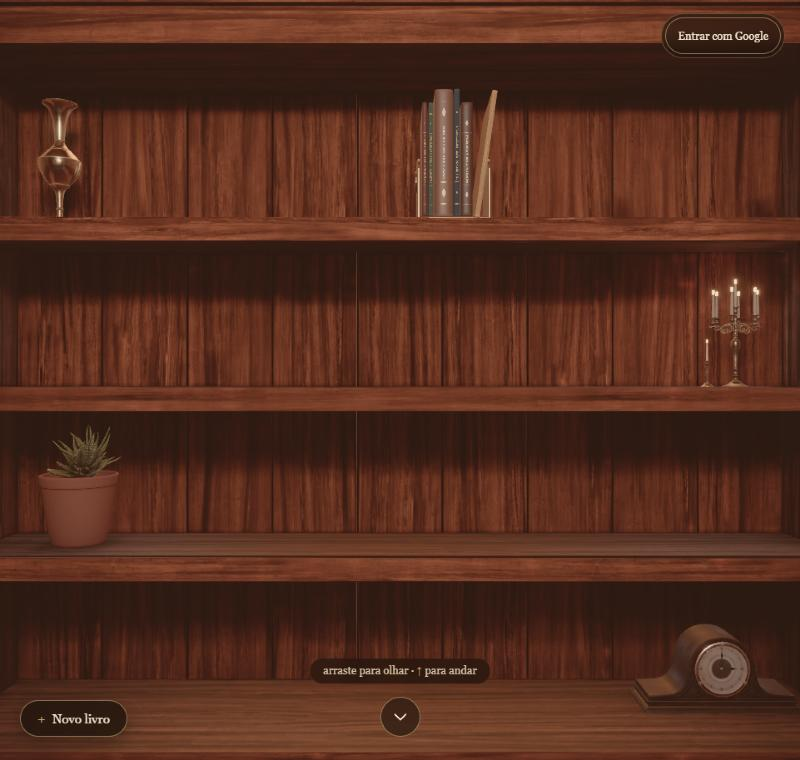
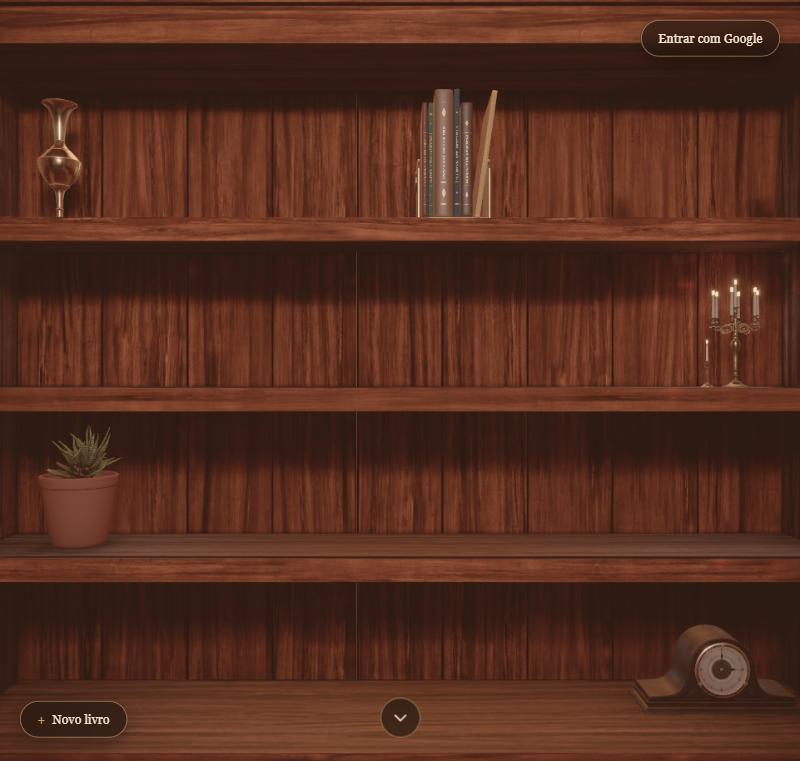
fase 7: conta revisada (art-reviewer C1–C3) — pílula igual ao Novo livro, aviso de migração embaixo, Esc e foco no modal

Changed region(s): [[0.7812, 0.0, 1.0, 0.0908], [0.375, 0.8474, 0.625, 0.9079], [0.0625, 0.9382, 0.1562, 0.9684]]

diff --git a/src/ui/AccountUI.tsx b/src/ui/AccountUI.tsx
@@ -1,4 +1,4 @@
-import { useState } from 'react'
+import { useEffect, useRef, useState } from 'react'
 import { params } from '../app/params'
 import { cloudConfigured, useAccount } from '../data/cloud'
 import { useLibrary } from '../data/library'
@@ -6,30 +6,32 @@ import './ui.css'
 
 /**
  * The account (spec Fase 7), top right: "Entrar com Google", or who is signed in and "Sair". Nothing at
- * all without the Supabase keys (the books stay in this browser, as in Fase 6).
+ * all without the Supabase keys (the books stay in this browser, as in Fase 6). `visible` false (a book in
+ * the hand or open, the form) hides it, except while the offer to move local books is waiting.
  */
-export function AccountUI() {
+export function AccountUI({ visible }: { visible: boolean }) {
   const status = useAccount((s) => s.status)
   const account = useAccount((s) => s.account)
   const signIn = useAccount((s) => s.signIn)
   const signOut = useAccount((s) => s.signOut)
-  if (!cloudConfigured || params.shot || status === 'loading') return null
+  const offering = useLibrary((s) => s.localPending.length > 0) && status === 'in'
+  if (!cloudConfigured || params.shot || status === 'loading' || (!visible && !offering)) return null
   return (
     <div className="acc">
       {status === 'in' && account ? (
-        <>
+        <div className="acc-in">
           {account.avatar ? (
             <img className="acc-avatar" src={account.avatar} alt="" referrerPolicy="no-referrer" />
           ) : (
             <span className="acc-avatar acc-initial">{account.name.slice(0, 1).toUpperCase()}</span>
           )}
           <span className="acc-name">{account.name}</span>
-          <button type="button" className="ui-btn ui-btn-small" onClick={() => void signOut()}>
+          <button type="button" className="acc-out" onClick={() => void signOut()}>
             Sair
           </button>
-        </>
+        </div>
       ) : (
-        <button type="button" className="ui-btn ui-btn-small" onClick={() => void signIn()}>
+        <button type="button" className="acc-signin" onClick={() => void signIn()}>
           Entrar com Google
         </button>
       )}
@@ -38,7 +40,7 @@ export function AccountUI() {
   )
 }
 
-/** First sign-in with books made in this browser: offer to take them to the account. */
+/** First sign-in with books made in this browser: offer to keep them in the account. */
 function MigrationOffer() {
   const pending = useLibrary((s) => s.localPending)
   const signedIn = useAccount((s) => s.status === 'in')
@@ -52,18 +54,22 @@ function MigrationOffer() {
     useLibrary
       .getState()
       .migrate((done) => setBusy(done))
-      .catch((err: unknown) => setError(`Não deu: ${err instanceof Error ? err.message : String(err)}`))
+      .catch((err: unknown) => {
+        console.warn('[conta] não levou os livros locais', err)
+        setError('Não foi possível guardar os livros. Tente de novo.')
+      })
       .finally(() => setBusy(null))
   }
   return (
     <div className="ui-card acc-offer" role="dialog" aria-labelledby="acc-offer-t">
+      <p className="ui-kicker">Sua conta</p>
       <p id="acc-offer-t">
-        Você tem {n === 1 ? '1 livro' : `${n} livros`} só neste navegador. Levar para a sua conta, para abrir em qualquer lugar?
+        {n === 1 ? '1 livro está' : `${n} livros estão`} só neste navegador. Guardar na sua conta para abrir em qualquer lugar?
       </p>
       {error && <p className="ui-error">{error}</p>}
       <div className="ui-actions">
         <button type="button" className="ui-btn ui-btn-primary ui-btn-small" disabled={busy !== null} onClick={move}>
-          {busy === null ? 'Levar' : `Levando ${busy}/${n}…`}
+          {busy === null ? 'Guardar na conta' : `Guardando ${busy}/${n}…`}
         </button>
         <button type="button" className="ui-btn ui-btn-small" disabled={busy !== null} onClick={() => useLibrary.getState().dismissMigration()}>
           Agora não
@@ -76,6 +82,15 @@ function MigrationOffer() {
 /** "Novo livro" (or a dropped PDF) while signed out: a book needs an owner first. */
 export function SignInFirst({ onClose }: { onClose: () => void }) {
   const signIn = useAccount((s) => s.signIn)
+  const primary = useRef<HTMLButtonElement>(null)
+  useEffect(() => {
+    primary.current?.focus()
+    const onKey = (e: KeyboardEvent) => {
+      if (e.key === 'Escape') onClose()
+    }
+    window.addEventListener('keydown', onKey)
+    return () => window.removeEventListener('keydown', onKey)
+  }, [onClose])
   return (
     <div className="ui-overlay" onClick={onClose}>
       <div className="ui-card acc-first" role="dialog" aria-modal="true" aria-labelledby="acc-first-t" onClick={(e) => e.stopPropagation()}>
@@ -83,9 +98,9 @@ export function SignInFirst({ onClose }: { onClose: () => void }) {
         <h2 id="acc-first-t" className="ui-title">
           Entre para guardar os seus livros
         </h2>
-        <p className="acc-first-text">Com a sua conta Google os livros ficam guardados e abrem em qualquer navegador. Só você vê a sua estante.</p>
+        <p className="acc-first-text">Com a sua conta Google, os livros ficam guardados e abrem em qualquer navegador. Só você vê a sua estante.</p>
         <div className="ui-actions">
-          <button type="button" className="ui-btn ui-btn-primary" onClick={() => void signIn()}>
+          <button ref={primary} type="button" className="ui-btn ui-btn-primary" onClick={() => void signIn()}>
             Entrar com Google
           </button>
           <button type="button" className="ui-btn" onClick={onClose}>

diff --git a/src/ui/ui.css b/src/ui/ui.css
@@ -531,29 +531,57 @@
   }
 }
 
-/* account (Fase 7): top right */
+/* account (Fase 7): top right, the same weight as "Novo livro" (bottom left) */
 .acc {
   position: fixed;
-  top: 16px;
-  right: 18px;
+  top: 24px;
+  right: 24px;
   z-index: 10;
+  animation: ui-fade var(--lb-slow) var(--lb-ease);
+}
+
+/* signed out: one pill, like .lib-new */
+.acc-in,
+.acc-signin {
+  min-height: var(--lb-touch);
+  border-radius: var(--lb-pill);
+  border: 1px solid var(--lb-glass-line-strong);
+  background: var(--lb-glass-light);
+  color: var(--lb-ink);
+  font: var(--lb-text) var(--lb-serif);
+  backdrop-filter: var(--lb-blur);
+  box-shadow: var(--lb-shadow-small);
+}
+
+.acc-signin {
+  padding: 10px 20px;
+  cursor: pointer;
+  transition: background var(--lb-fast);
+}
+
+.acc-signin:hover {
+  background: var(--lb-glass);
+}
+
+.acc-signin:focus-visible,
+.acc-out:focus-visible {
+  outline: 2px solid var(--lb-gold-light);
+  outline-offset: 3px;
+}
+
+/* signed in: avatar, name and a borderless "Sair" inside one glass capsule */
+.acc-in {
   display: flex;
   align-items: center;
   gap: 10px;
-  padding: 4px;
-  border-radius: var(--lb-pill);
-  background: var(--lb-glass-light);
-  border: 1px solid var(--lb-glass-line);
-  color: var(--lb-ink);
-  font: var(--lb-small) var(--lb-serif);
-  backdrop-filter: var(--lb-blur);
+  padding: 0 0 0 6px;
 }
 
 .acc-avatar {
   width: 32px;
   height: 32px;
-  margin-left: 6px;
   border-radius: 50%;
+  border: 1px solid var(--lb-glass-line-strong);
   object-fit: cover;
 }
 
@@ -562,25 +590,61 @@
   place-items: center;
   background: var(--lb-gold);
   color: var(--lb-on-gold);
+  font-size: var(--lb-small);
 }
 
 .acc-name {
   max-width: 160px;
   overflow: hidden;
+  color: var(--lb-ink-soft);
   text-overflow: ellipsis;
   white-space: nowrap;
 }
 
-.acc-offer {
+.acc-out {
+  position: relative;
+  min-height: var(--lb-touch);
+  padding: 0 18px 0 14px;
+  border: 0;
+  border-radius: var(--lb-pill);
+  background: none;
+  color: var(--lb-ink);
+  font: var(--lb-small) var(--lb-serif);
+  letter-spacing: 0.04em;
+  cursor: pointer;
+}
+
+/* a thin rule between the name and the action */
+.acc-out::before {
+  content: '';
   position: absolute;
-  top: calc(100% + 10px);
-  right: 0;
-  width: min(340px, calc(100vw - 32px));
-  padding: 16px 18px;
+  left: 0;
+  top: 13px;
+  bottom: 13px;
+  width: 1px;
+  background: var(--lb-glass-line);
+}
+
+.acc-out:hover {
+  color: var(--lb-gold);
+}
+
+/* bottom right, level with "Novo livro": off the books it talks about */
+.acc-offer {
+  position: fixed;
+  right: 24px;
+  bottom: 28px;
+  width: min(360px, calc(100vw - 32px));
+  padding: 18px 20px;
 }
 
 .acc-offer p {
   margin: 0;
+}
+
+.acc-offer p:not(.ui-kicker):not(.ui-error) {
+  color: var(--lb-ink-soft);
+  line-height: 1.5;
 }
 
 .acc-first {
@@ -592,4 +656,15 @@
   margin: 0;
   color: var(--lb-ink-soft);
   line-height: 1.5;
+}
+
+@media (max-width: 480px) {
+  .acc {
+    top: 16px;
+    right: 16px;
+  }
+
+  .acc-name {
+    display: none;
+  }
 }

diff --git a/src/ui/LibraryUI.tsx b/src/ui/LibraryUI.tsx
@@ -1,4 +1,4 @@
-import { useEffect, useState } from 'react'
+import { useCallback, useEffect, useState } from 'react'
 import { params } from '../app/params'
 import { SELECTION_NODE, useSelection } from '../book/useSelection'
 import { useAccount } from '../data/cloud'
@@ -20,6 +20,7 @@ export function LibraryUI() {
   // with the cloud on (Fase 7) a book needs an owner: signed out, "Novo livro" asks to sign in first
   const needsSignIn = useAccount((s) => s.status === 'out')
   const [askSignIn, setAskSignIn] = useState(false)
+  const closeAsk = useCallback(() => setAskSignIn(false), [])
   const dragging = usePdfDropToCreate(!formOpen, needsSignIn, () => setAskSignIn(true))
   // ?form=new opens the form (screenshots of it; in shot mode it is the only UI)
   useEffect(() => {
@@ -34,8 +35,9 @@ export function LibraryUI() {
         </button>
       )}
       {dragging && <div className="lib-dropping">Solte o PDF para criar um livro</div>}
-      {askSignIn && <SignInFirst onClose={() => setAskSignIn(false)} />}
-      <AccountUI />
+      {askSignIn && <SignInFirst onClose={closeAsk} />}
+      {/* anywhere in the room (sign in on arrival); out of the way with a book in the hand or open, the form, the sign-in ask */}
+      <AccountUI visible={!selected && !formOpen && !askSignIn} />
       <BookForm />
     </>
   )

diff --git a/src/data/cloud.ts b/src/data/cloud.ts
@@ -6,14 +6,14 @@ import { create } from 'zustand'
 import type { BookRow, CloudDb } from './cloudBooks'
 import { getCachedFile, putCachedFile } from './db'
 
-const URL = import.meta.env.VITE_SUPABASE_URL
+const SUPABASE_URL = import.meta.env.VITE_SUPABASE_URL
 const KEY = import.meta.env.VITE_SUPABASE_ANON_KEY
-export const cloudConfigured = !!(URL && KEY)
+export const cloudConfigured = !!(SUPABASE_URL && KEY)
 
 let clientPromise: Promise<SupabaseClient> | null = null
 export function getClient(): Promise<SupabaseClient> {
   clientPromise ??= import('@supabase/supabase-js').then(({ createClient }) =>
-    createClient(URL!, KEY!, { auth: { persistSession: true, autoRefreshToken: true, detectSessionInUrl: true, flowType: 'pkce' } }),
+    createClient(SUPABASE_URL!, KEY!, { auth: { persistSession: true, autoRefreshToken: true, detectSessionInUrl: true, flowType: 'pkce' } }),
   )
   return clientPromise
 }

diff --git a/docs/look-dev/iteracoes.md b/docs/look-dev/iteracoes.md
@@ -143,3 +143,18 @@ Cada entrada: data/hora, o que mudou, notas por critério (art-reviewer), diverg
 - Luzes em tempo real dos livros/objetos levadas 30% (sol) e 40% (lustre) ao branco — o lustre a 2400 K tirava quase todo o azul; bake e env map intocados. Prévia com luz-chave quase neutra na frente da capa (a sala tem balanço de branco, a prévia não): azul-petróleo mede (73, 81, 89) na prévia e (72, 73, 77) na mão. Prévia a 40° com a lombada para a câmera, FOV 22, ~65% da altura. Sumário com linhas de 36 px no mouse e fade no pé. Botão × para tirar a foto; rótulo do PDF.
 - **art-reviewer (I3):** coerência 5 · legibilidade 4 · consistência 4 · formulário 4 — **"pronto para o usuário"**. Aplicado depois: texto da confirmação de Remover com entrelinha 1,45 e botão Remover tingido; × da foto centrado; prévia 6 mm para a direita.
 - Pendência: na mão, o azul-petróleo lê quase neutro (72, 73, 77) contra (73, 81, 89) na prévia; esfriar mais as luzes dos objetos mudaria a aparência já aprovada dos objetos da estante — fica para o usuário decidir.
+
+## Conta (Fase 7)
+
+### C1 — 2026-10-16
+- Pílula "Entrar com Google" no canto superior direito; modal "Entre para guardar os seus livros" ao pedir "Novo livro" deslogado.
+- **art-reviewer:** consistência 4 · legibilidade 4 · composição 3 — "iterar": contorno duplo, pílula menor que "Novo livro", visível com o livro na mão/aberto, modal sem Esc nem foco, textos.
+
+### C2
+- Pílula igual à "Novo livro" (15 px, sombra, fade, 44 px, cantos a 24 px); logado: cápsula com avatar com borda, nome em ink-soft e "Sair" sem borda; some com livro na mão ou aberto e no formulário. Modal com Esc e foco no primário. Textos: "Guardar na conta", erro sem mensagem técnica.
+- **art-reviewer:** 4 · 4 · 3 — "iterar": aviso de migração cobrindo os livros da prateleira de cima, "Sair" grudado no nome, foco visível, cor do texto do aviso, kicker repetindo "navegador".
+
+### C3
+- Aviso de migração embaixo à direita (na altura do "Novo livro"); filete entre o nome e "Sair"; `:focus-visible` dourado; texto do aviso em ink-soft; kicker "Sua conta"; pílula escondida atrás do modal de login.
+- Decisão: a conta fica visível pela sala toda (não só na estante), para entrar logo na chegada; o revisor sugeriu só na estante.
+- Shots: `shots/latest/ui_conta_estante.jpg`, `ui_conta_logado_levar.jpg` (conta simulada), `ui_conta_entrar_primeiro.jpg`. O estado logado real (foto do Google) só com as chaves.
